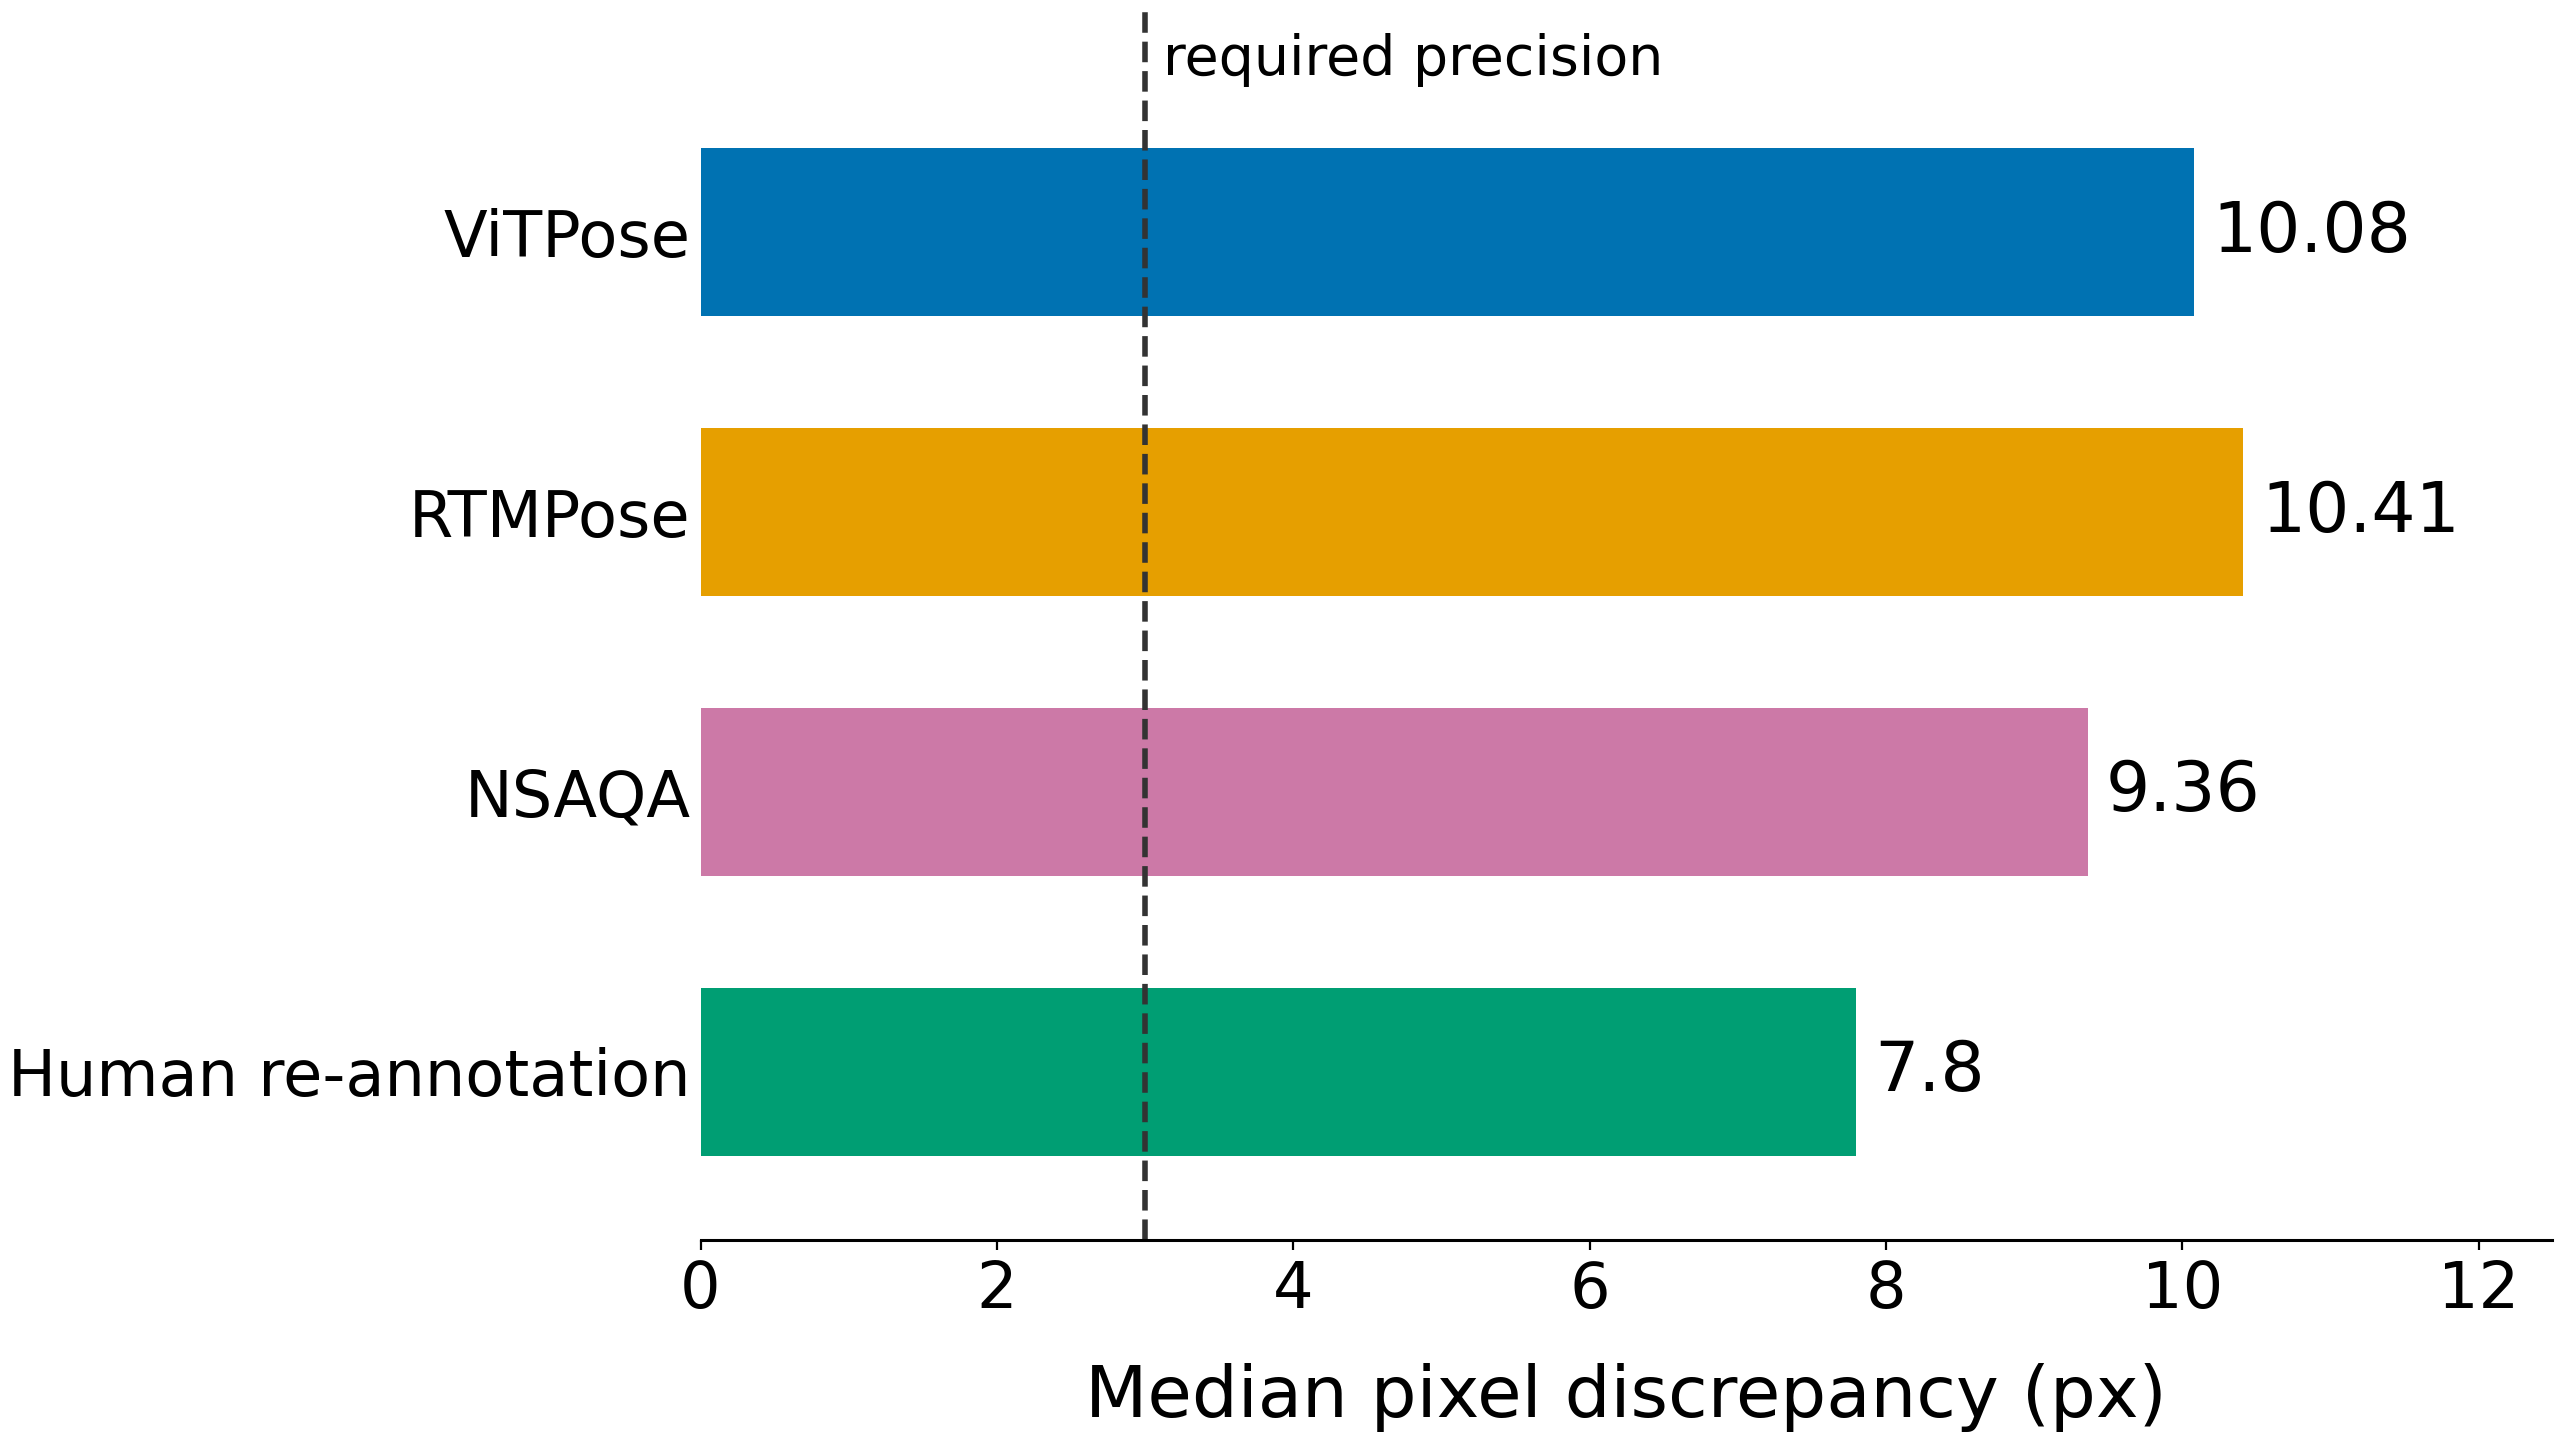
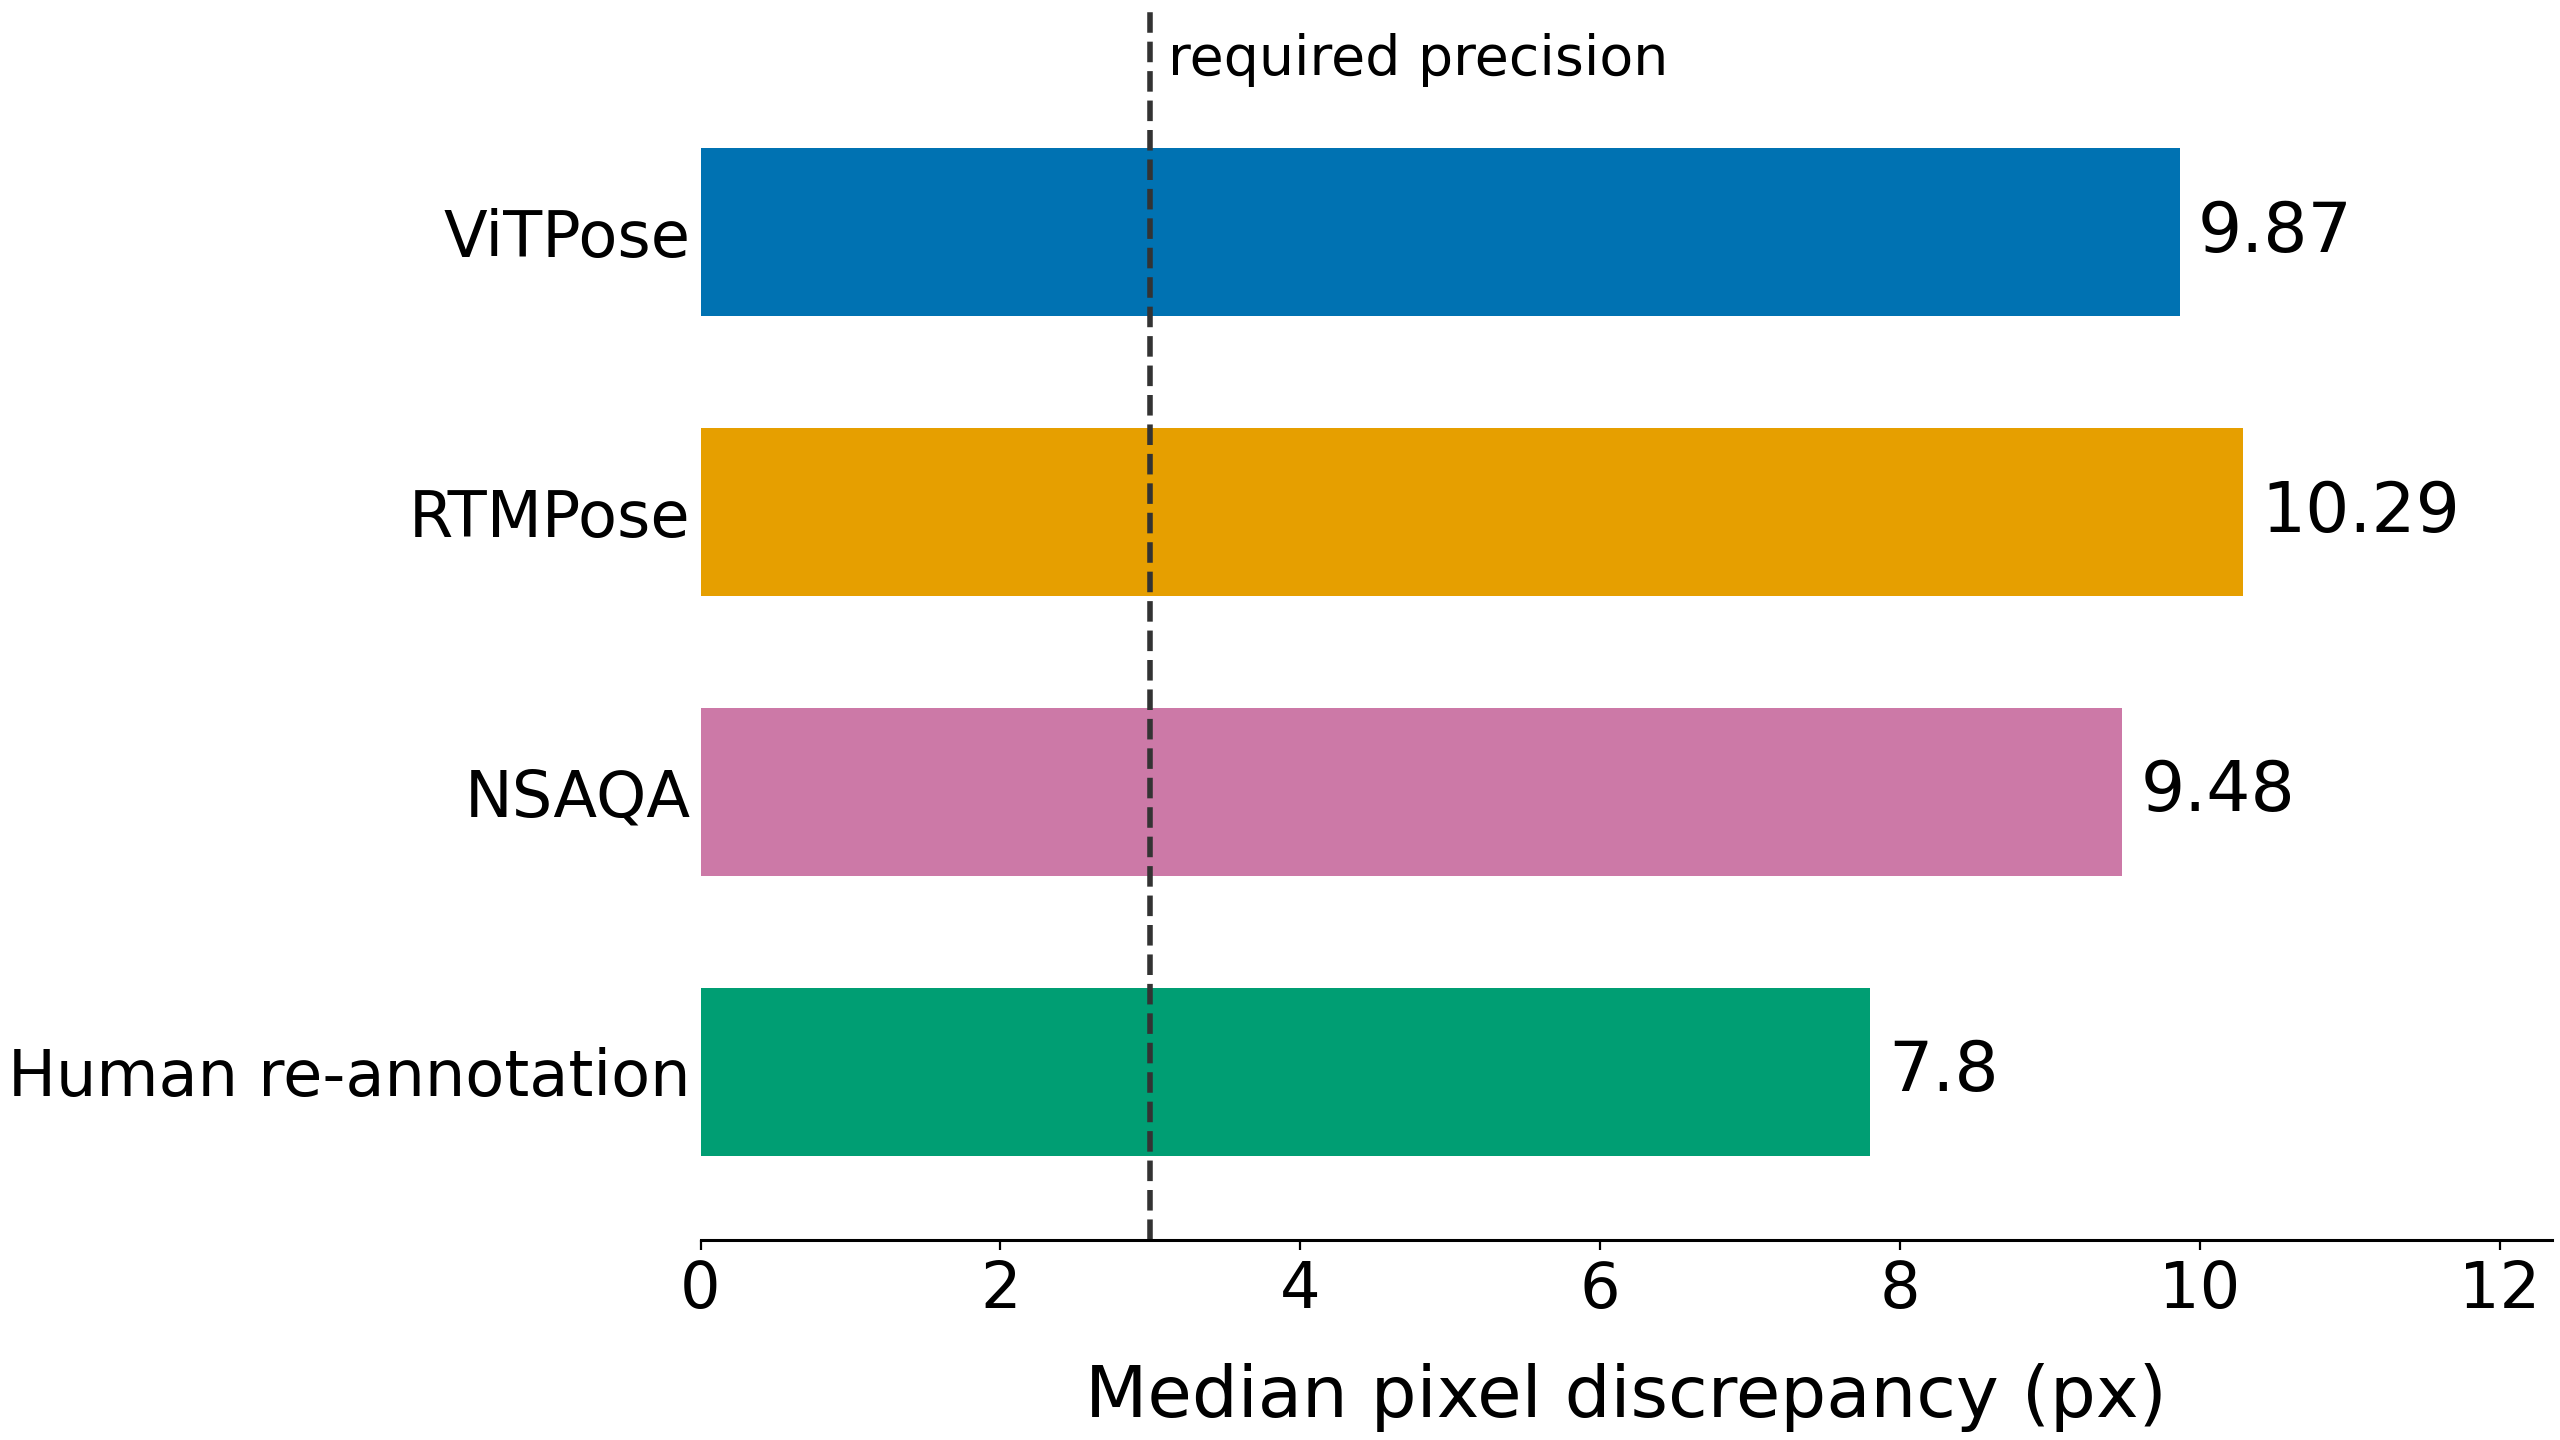
Compute Figure 3 medians from raw head-excluded errors using Figure 2 filters

diff --git a/src/make_figures.py b/src/make_figures.py
@@ -59,7 +59,7 @@ def load_data(root: Path) -> tuple[np.ndarray, list[dict], list[dict]]:
     """Validate all data before creating any figures; do not average medians."""
     paths = [root / name for name in (
         'detection_threshold.csv', 'pose_error.csv', 'pose_error_nsaqa.csv',
-        'human_consistency.csv', 'model_medians.csv')]
+        'human_consistency.csv')]
     missing = [str(p) for p in paths if not p.is_file()]
     if missing:
         raise FileNotFoundError('Required CSV missing: ' + ', '.join(missing))
@@ -107,17 +107,17 @@ def load_data(root: Path) -> tuple[np.ndarray, list[dict], list[dict]]:
     overall = [row for row in humans if row['measure'] == 'overall']
     if len(overall) != 1:
         raise ValueError('Expected exactly one overall human-consistency row')
-    model_rows = read_csv(paths[4], {'model', 'median_px', 'head_excluded', 'source'})
-    if len(model_rows) != 3 or {r['model'] for r in model_rows} != set(MODELS):
-        raise ValueError('Expected exactly one supplied overall median per model')
     limit_data = []
     for model in MODELS:
-        row = next(r for r in model_rows if r['model'] == model)
-        if row['head_excluded'].lower() != 'true':
-            raise ValueError(f'{model}: Figure 3 requires head-excluded median')
-        limit_data.append(dict(model=model, median_px=number(row['median_px'], model), source=row['source']))
+        # Pool exactly Figure 2's accepted observations across its five phases;
+        # do not take a median of phase medians or reuse supplied summaries.
+        values = [value for phase in PHASES for value in groups[(model, phase)]]
+        limit_data.append(dict(model=model, median_px=float(np.median(values)),
+                               n_joint_errors=len(values),
+                               source='raw per-joint CSVs; head excluded; phases=' + ','.join(PHASES)))
     human = overall[0]
     limit_data.append(dict(model='human', median_px=number(human['median_px'], 'human overall'),
+                           n_joint_errors=int(human['paired_points']),
                            source=f"independent re-annotation: {human['paired_points']} paired points, {human['frames']} frames"))
     return heatmap, phase_data, limit_data
 
@@ -195,7 +195,7 @@ def figure_limit(rows: list[dict], output: Path) -> None:
     ax.text(REQUIRED_PX+.12, .98, 'required precision', transform=ax.get_xaxis_transform(),
             ha='left', va='top', fontsize=20)
     for bar, value in zip(bars, values):
-        ax.text(value+.12, bar.get_y()+bar.get_height()/2, f'{value:g}', va='center', fontsize=25)
+        ax.text(value+.12, bar.get_y()+bar.get_height()/2, f'{value:.2f}'.rstrip('0').rstrip('.'), va='center', fontsize=25)
     ax.spines['left'].set_visible(False)
     ax.tick_params(axis='y', length=0)
     save(fig, output)
@@ -221,6 +221,9 @@ def main() -> None:
     figure_limit(limits, out/'figure_3_limit.png')
     write_csv(out/'figure_2_phase_medians.csv', phases)
     write_csv(out/'figure_3_medians.csv', limits)
+    write_csv(args.results/'model_medians.csv', [dict(model=r['model'], median_px=r['median_px'],
+        head_excluded=True, n_joint_errors=r['n_joint_errors'], source=r['source'])
+        for r in limits if r['model'] in MODELS])
     write_csv(out/'figure_1_detection_rates.csv', [dict(break_size_percent=b,
         **{f'sigma_{s}_px': float(heatmap[i,j]) for j,s in enumerate(SIGMAS)}) for i,b in enumerate(BREAKS)])
     for path in sorted(out.glob('figure_*.png')):
